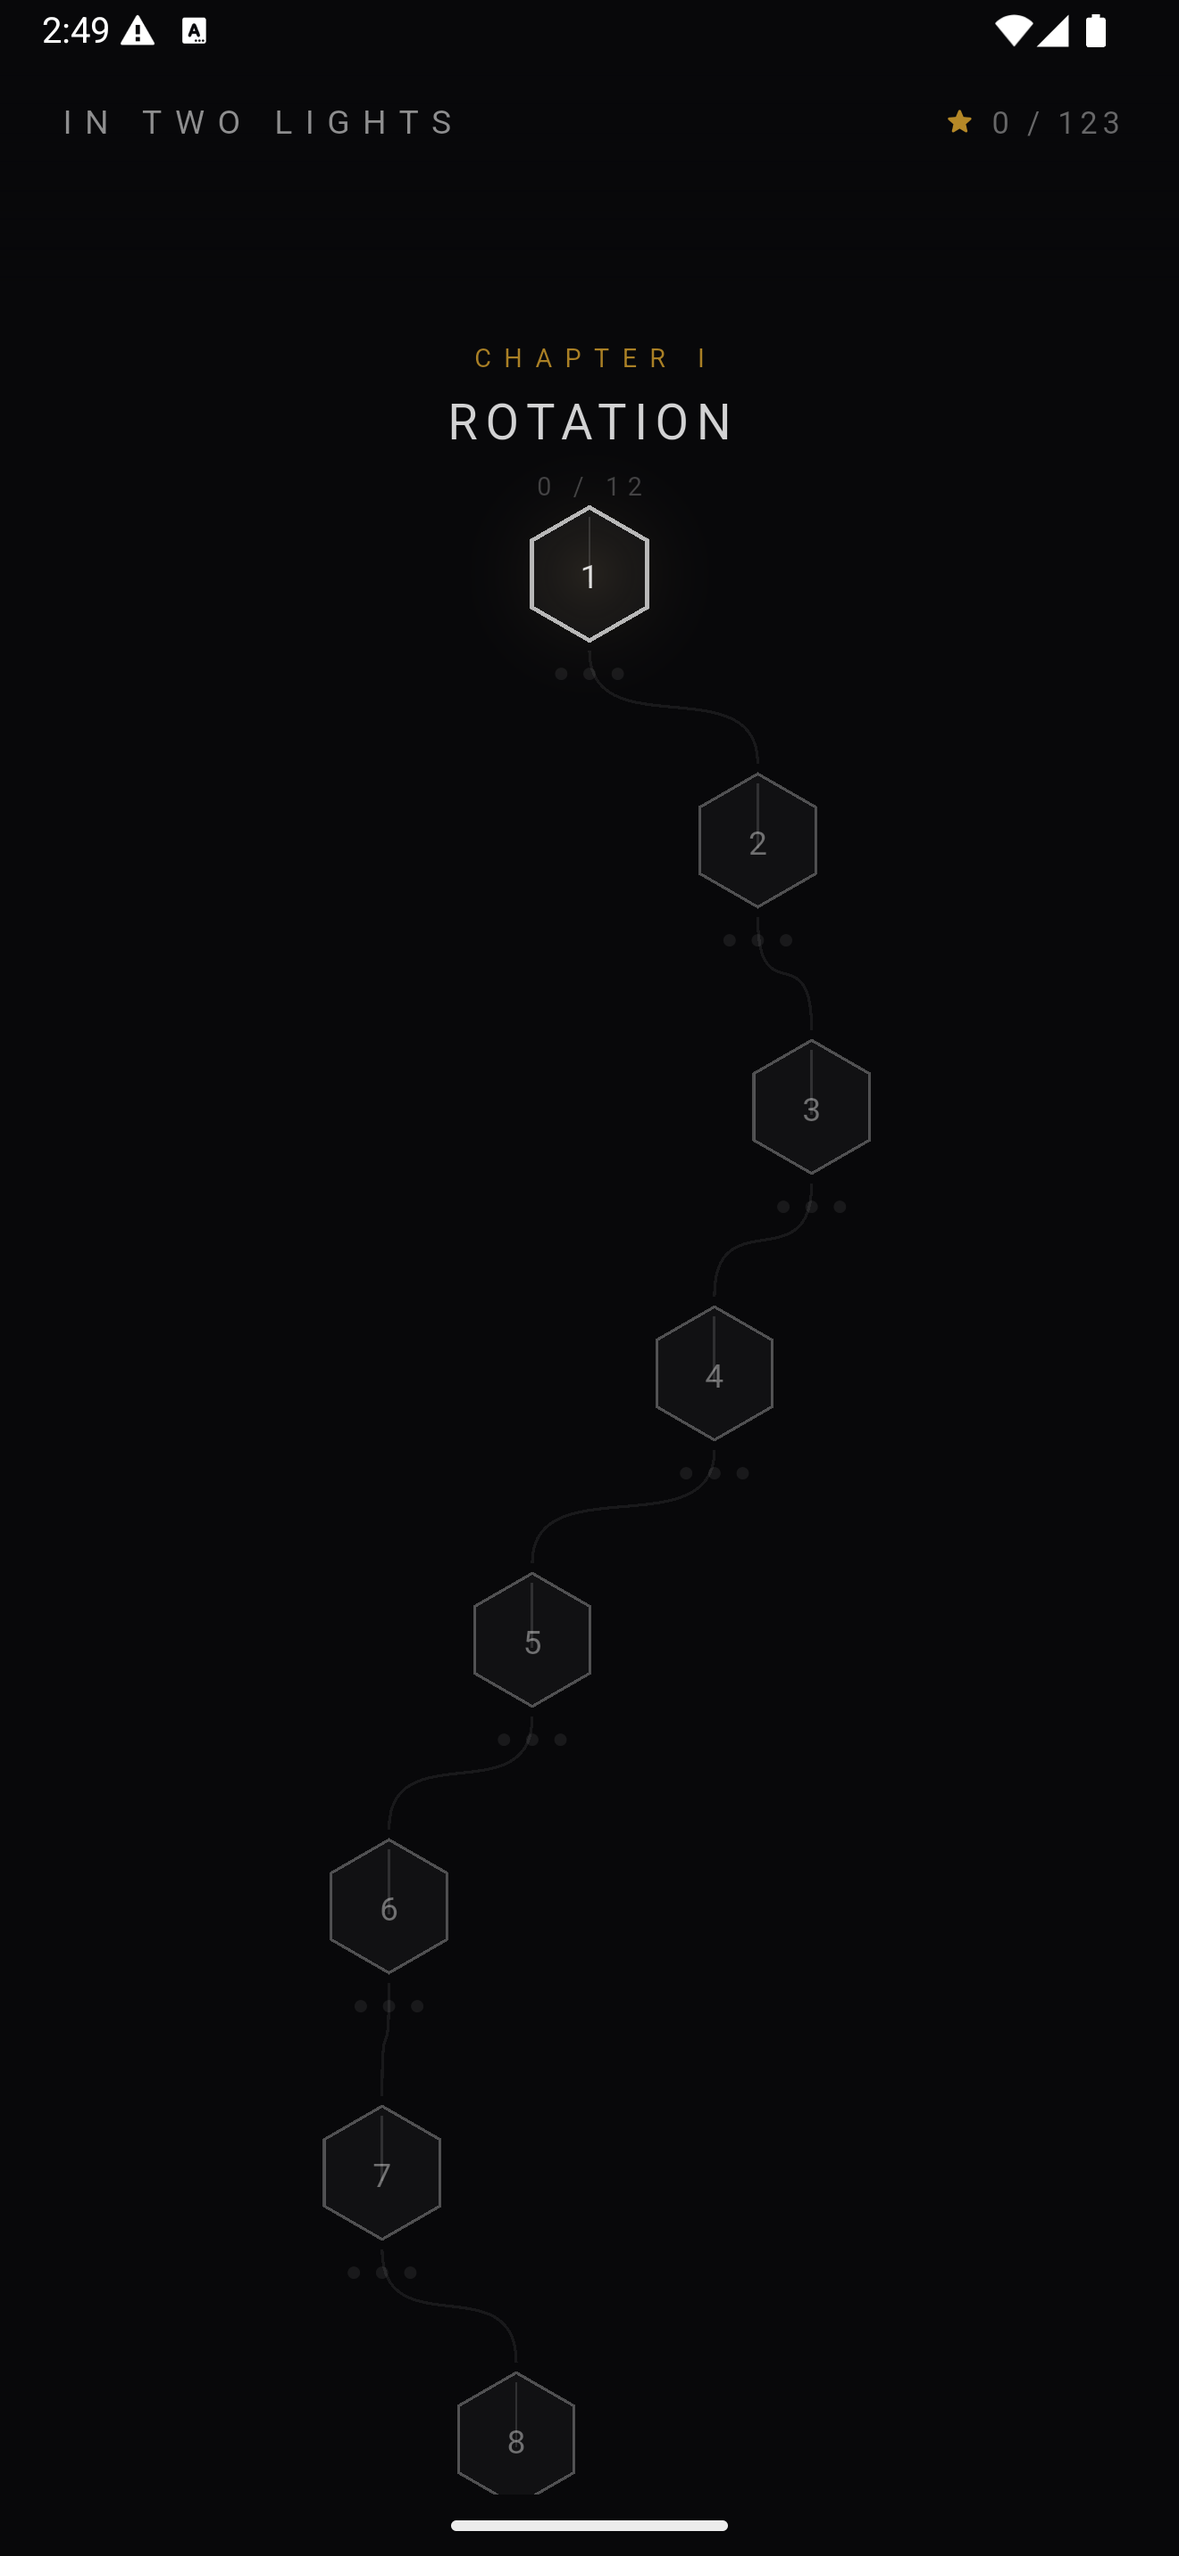
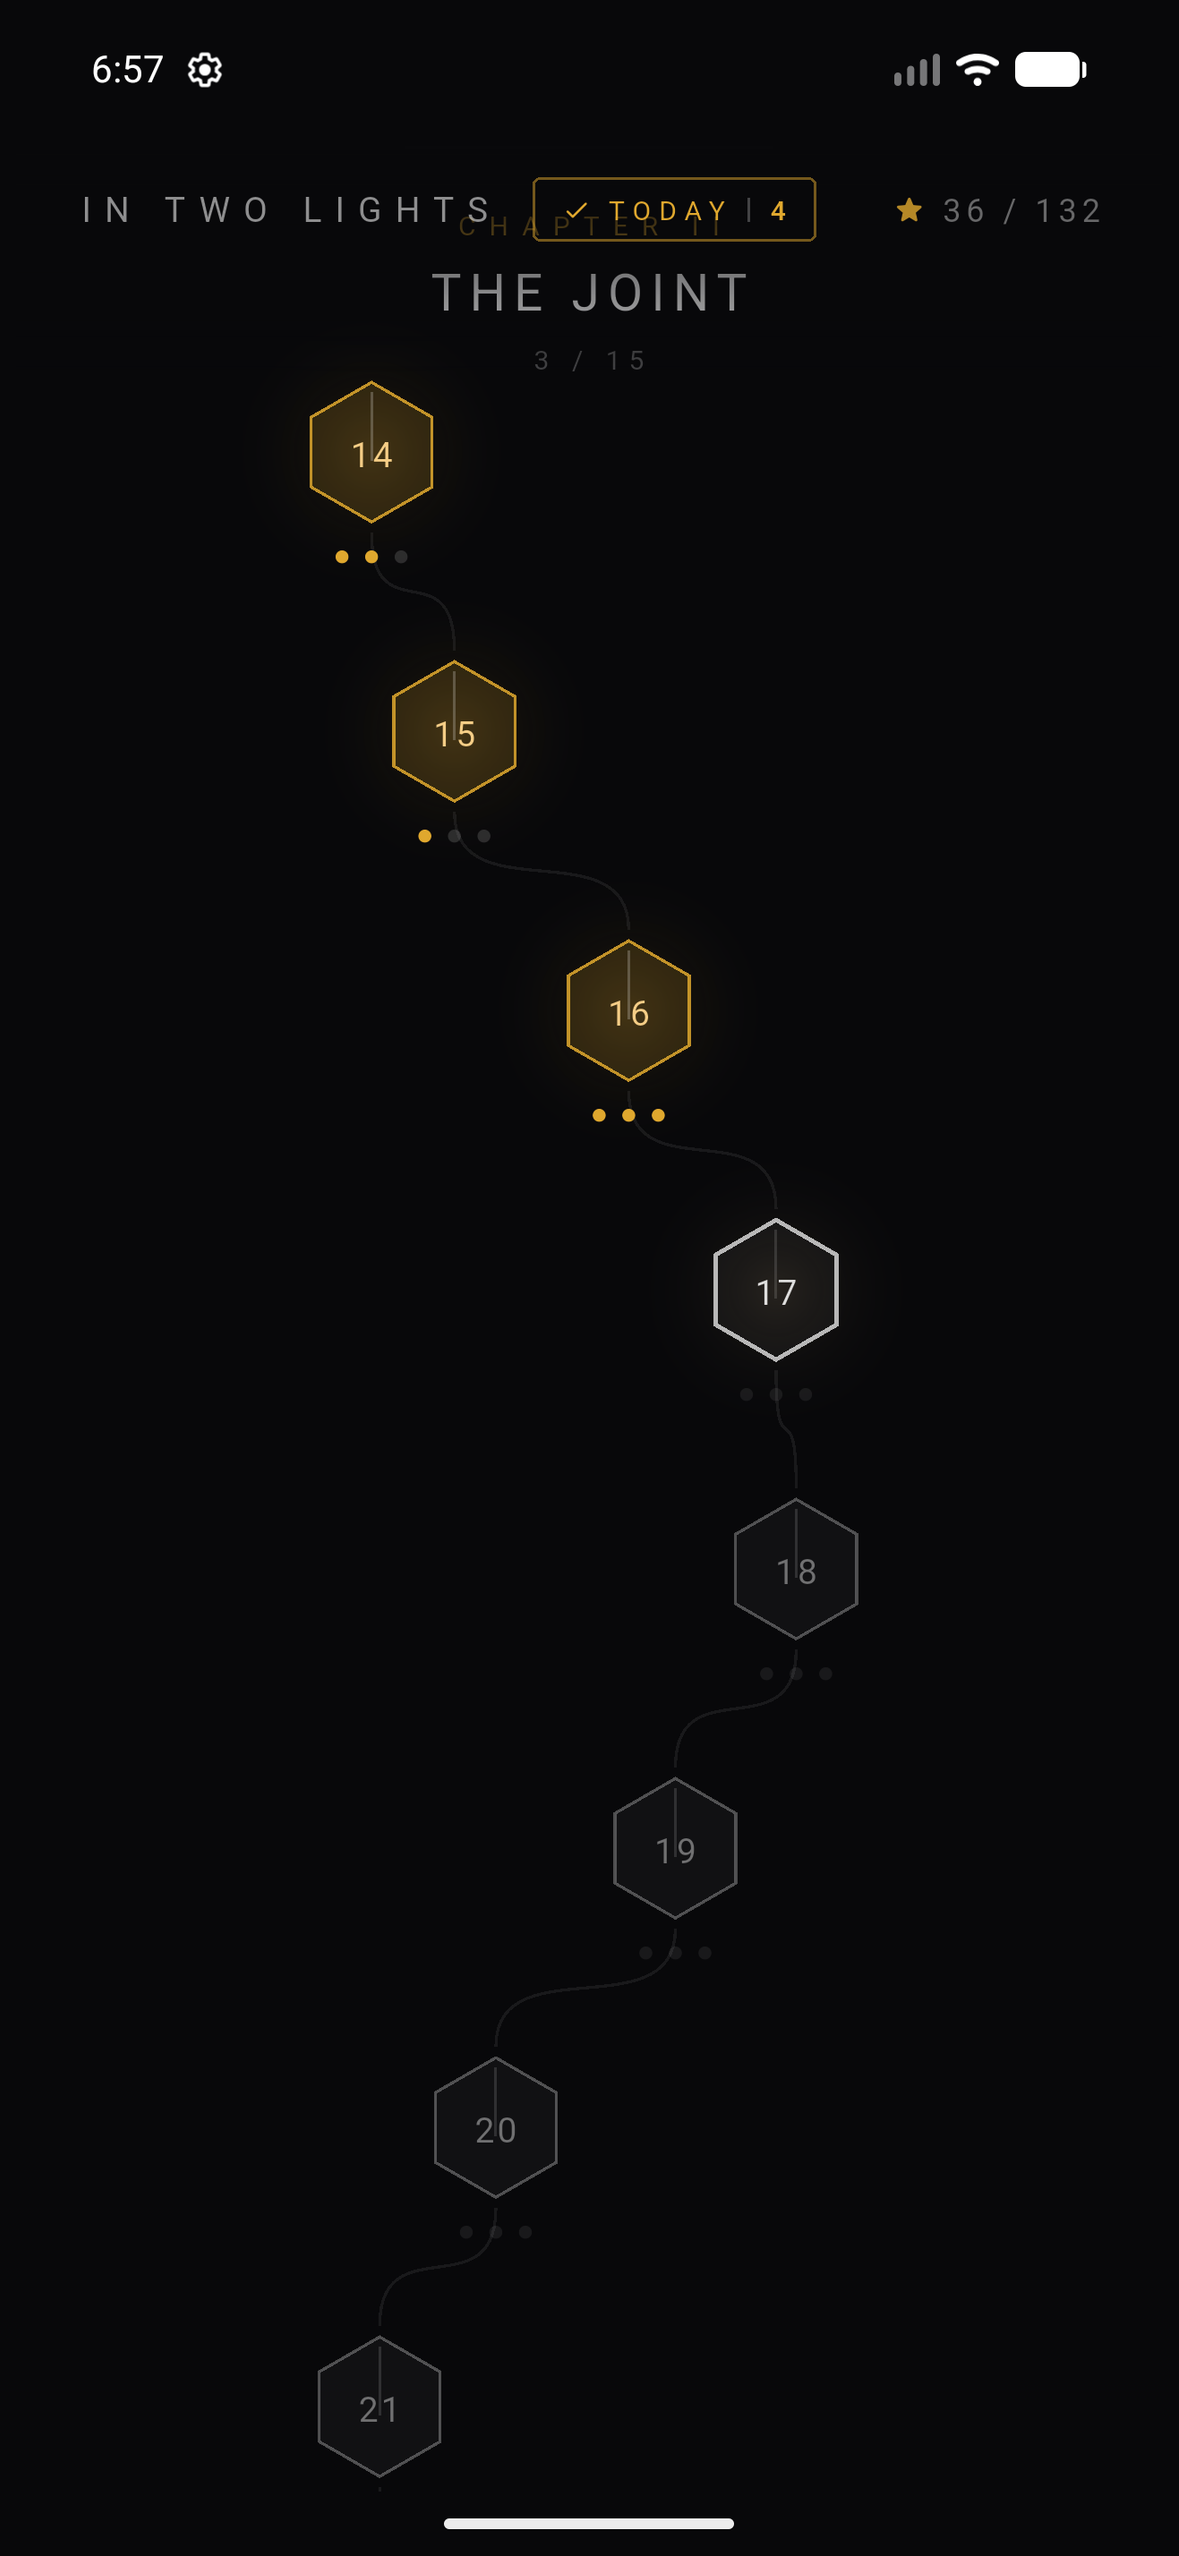
Real screenshots, and two defects that only a screenshot could find
All four store shots were stale -- showing a HUD button that no longer exists
and a solve panel that had become a modal. Recaptured from a release build on
device through lib/shots.dart, then composited to 1320x2868 and 1179x2556.

Contain and pad, never crop: the emulator is 1280x2856 and the iPhone target is
a taller aspect, so covering the frame would shave ~77px off the height, which
is exactly where the level counter and both meters live.

Two things the capture exposed that nothing else would have.

The onboarding ghost hand was in every frame. _DragHint drifts until the player
first drags, and a pose applied programmatically never sets _touched -- so the
press kit would have shipped with a teaching overlay floating mid-screen,
reading as a stray control.

Both platforms launched WHITE. android launch_background.xml was still
Flutter's default @android:color/white under a Theme.Light parent, and the iOS
storyboard was red=1 green=1 blue=1. A game whose entire palette is #08080A
flashed white on every cold start -- the first thing a player and a reviewer
see, and pure leftover scaffolding. Both now launch on #08080A, including
NormalTheme, which had been falling back to ?android:colorBackground.

diff --git a/lib/shots.dart b/lib/shots.dart
@@ -1,0 +1,110 @@
+import 'package:flutter/material.dart';
+
+import 'daily.dart';
+import 'forms.dart';
+import 'level.dart';
+import 'main.dart';
+import 'map_screen.dart';
+import 'progress.dart';
+import 'store.dart';
+
+/// Press-kit capture mode. Off unless built with `--dart-define=SHOT=true`,
+/// so the whole file tree-shakes out of a normal release — the same pattern
+/// `Store._forceLock` already uses.
+///
+///   flutter run --release --dart-define=SHOT=true
+///
+/// Tap anywhere to advance to the next shot. One build covers the whole set,
+/// because `--dart-define` is compile-time and a shot-per-build would mean a
+/// full rebuild for every picture.
+///
+/// Why this exists rather than capturing by hand: store screenshots have to be
+/// redone every time the UI moves, and they had gone stale twice in a day —
+/// showing a HUD button that no longer exists and a solve panel that had become
+/// a modal. A ritual that has to be repeated by hand is a ritual that rots.
+const bool shotMode = bool.fromEnvironment('SHOT');
+
+/// Levels are authored *as* a solved pose, so a solved room needs no solver —
+/// just the pose the level already stores.
+class Shot {
+  const Shot(this.label, {this.level, this.pose, this.map = false});
+  final String label;
+  final int? level;
+
+  /// null means "use the level's own solution", i.e. show it solved.
+  final Pose? pose;
+  final bool map;
+}
+
+const shots = <Shot>[
+  // The differentiator first: scattered shards, a clean moth on the wall.
+  Shot('01-silhouette', level: 43),
+  // The recognition moment inside the FREE chapter.
+  Shot('02-hare', level: 3),
+  // Mid-puzzle and unsolved, so the mechanic is visible rather than the prize.
+  Shot('03-working', level: 20, pose: Pose(0.9, -0.35, 0.4)),
+  Shot('04-map', map: true),
+];
+
+/// Plausible progress, so the map reads as a game in play rather than an empty
+/// grid. Real UI, sample data — the same thing a person would have after an
+/// evening, which is what a store screenshot is supposed to depict.
+Progress _sampleCampaign() => Progress({
+      for (var i = 0; i < 16; i++) i: [0.99, 0.96, 0.93][i % 3],
+    });
+
+Progress _sampleDaily() {
+  final today = dailyDayNumber(DateTime.now());
+  return Progress({for (var d = today - 3; d <= today; d++) d: 0.97},
+      storeKey: Progress.dailyKey);
+}
+
+class ShotRunner extends StatefulWidget {
+  const ShotRunner({super.key, required this.store});
+  final Store store;
+
+  @override
+  State<ShotRunner> createState() => _ShotRunnerState();
+}
+
+class _ShotRunnerState extends State<ShotRunner> {
+  int _i = 0;
+  late final Progress _campaign = _sampleCampaign();
+  late final Progress _daily = _sampleDaily();
+
+  @override
+  Widget build(BuildContext context) {
+    final shot = shots[_i % shots.length];
+    final Widget screen = shot.map
+        ? MapScreen(
+            progress: _campaign,
+            daily: _daily,
+            store: widget.store,
+            onPlay: (_) async {},
+            onDaily: () async {},
+          )
+        : PlayScreen(
+            // Keyed so advancing rebuilds the screen from scratch rather than
+            // reusing the previous level's state.
+            key: ValueKey(_i),
+            index: shot.level!,
+            progress: _campaign,
+            initialPose: shot.pose ?? allLevels[shot.level!].solution,
+            suppressPanel: true,
+          );
+
+    return Stack(
+      children: [
+        screen,
+        // Above everything, so a tap advances even over the HUD.
+        Positioned.fill(
+          child: GestureDetector(
+            behavior: HitTestBehavior.opaque,
+            onTap: () => setState(() => _i++),
+            child: const SizedBox.expand(),
+          ),
+        ),
+      ],
+    );
+  }
+}

diff --git a/lib/main.dart b/lib/main.dart
@@ -17,6 +17,7 @@ import 'forms.dart';
 import 'map_screen.dart';
 import 'progress.dart';
 import 'scene.dart';
+import 'shots.dart';
 import 'store.dart';
 
 Future<void> main() async {
@@ -33,6 +34,17 @@ Future<void> main() async {
   // Store reports unlocked until it knows otherwise, so the map is correct
   // either way and simply re-renders when the entitlement arrives.
   unawaited(store.init());
+
+  if (shotMode) {
+    runApp(MaterialApp(
+      debugShowCheckedModeBanner: false,
+      theme: ThemeData.dark(useMaterial3: true).copyWith(
+        scaffoldBackgroundColor: const Color(0xFF08080A),
+      ),
+      home: ShotRunner(store: store),
+    ));
+    return;
+  }
 
   runApp(InTwoLightsApp(progress: progress, daily: daily, store: store));
 }
@@ -111,6 +123,8 @@ class PlayScreen extends StatefulWidget {
     this.levels,
     this.progressKey,
     this.shareTitle,
+    this.initialPose,
+    this.suppressPanel = false,
   });
 
   final int index;
@@ -130,6 +144,14 @@ class PlayScreen extends StatefulWidget {
   /// number; the daily passes its own, because a daily level's `name` is its
   /// position in the pool and not the date anyone played it.
   final String? shareTitle;
+
+  /// Press-kit capture only — open at this pose instead of the origin. See
+  /// lib/shots.dart.
+  final Pose? initialPose;
+
+  /// Press-kit capture only. A solved room is the picture worth taking; the
+  /// panel sliding over it 900ms later is not.
+  final bool suppressPanel;
 
   @override
   State<PlayScreen> createState() => _PlayScreenState();
@@ -270,6 +292,16 @@ class _PlayScreenState extends State<PlayScreen>
     _audio.start();
     _audio.proximity(math.min(_score.a, _score.b), solved: _score.solved);
     _armHint();
+    final start = widget.initialPose;
+    if (start != null) {
+      // A pose arrived without anyone dragging, so the wordless onboarding
+      // hint is moot — and left on, it drifts across every press-kit capture
+      // looking like a stray control.
+      _touched = true;
+      // Through _apply, so the glow, the chord and the star record all happen
+      // exactly as they would for a player who got there themselves.
+      WidgetsBinding.instance.addPostFrameCallback((_) => _apply(start));
+    }
   }
 
   // Fixed so dust doesn't reshuffle every frame.
@@ -339,7 +371,7 @@ class _PlayScreenState extends State<PlayScreen>
     // Every pose change restarts the clock, so the panel only ever appears
     // once the player has actually stopped.
     _settle?.cancel();
-    if (score.solved) {
+    if (score.solved && !widget.suppressPanel) {
       _settle = Timer(_settleDelay, () {
         if (mounted) setState(() => _panel = true);
       });

diff --git a/press/make_shots.py b/press/make_shots.py
@@ -1,0 +1,58 @@
+"""Turn raw device captures into the two sizes the stores require.
+
+Run: python press/make_shots.py press/raw/*.png
+
+  App Store 6.9"  1320x2868  -> press/store/
+  Devpost         1179x2556  -> press/devpost/
+
+**Contain and pad, never crop.** The emulator is 1280x2856 (aspect 0.4482) and
+the iPhone target is 0.4603, so covering the frame would shave ~77px off the
+height — which is exactly where the level counter and the two meters live. The
+padding is the app's own background, so on a dark UI the seam is invisible.
+Losing the HUD to a crop is not.
+"""
+import glob
+import os
+import sys
+
+from PIL import Image
+
+BG = (8, 8, 10)  # scaffoldBackgroundColor
+TARGETS = {
+    "store": (1320, 2868),    # App Store, 6.9" iPhone
+    "devpost": (1179, 2556),  # Devpost gallery
+}
+ROOT = os.path.dirname(os.path.dirname(os.path.abspath(__file__)))
+
+
+def fit(im, size):
+    tw, th = size
+    scale = min(tw / im.width, th / im.height)
+    w, h = max(1, round(im.width * scale)), max(1, round(im.height * scale))
+    canvas = Image.new("RGB", size, BG)
+    canvas.paste(im.resize((w, h), Image.LANCZOS), ((tw - w) // 2, (th - h) // 2))
+    return canvas
+
+
+def main(paths):
+    if not paths:
+        sys.exit("usage: make_shots.py <raw captures...>")
+    for folder in TARGETS:
+        os.makedirs(os.path.join(ROOT, "press", folder), exist_ok=True)
+
+    for path in sorted(paths):
+        src = Image.open(path).convert("RGB")
+        name = os.path.basename(path)
+        for folder, size in TARGETS.items():
+            out = os.path.join(ROOT, "press", folder, name)
+            fit(src, size).save(out, "PNG")
+        print(f"{name}: {src.width}x{src.height} -> "
+              + ", ".join(f"{w}x{h}" for w, h in TARGETS.values()))
+
+
+if __name__ == "__main__":
+    args = sys.argv[1:]
+    expanded = []
+    for a in args:
+        expanded.extend(glob.glob(a) or [a])
+    main(expanded)
